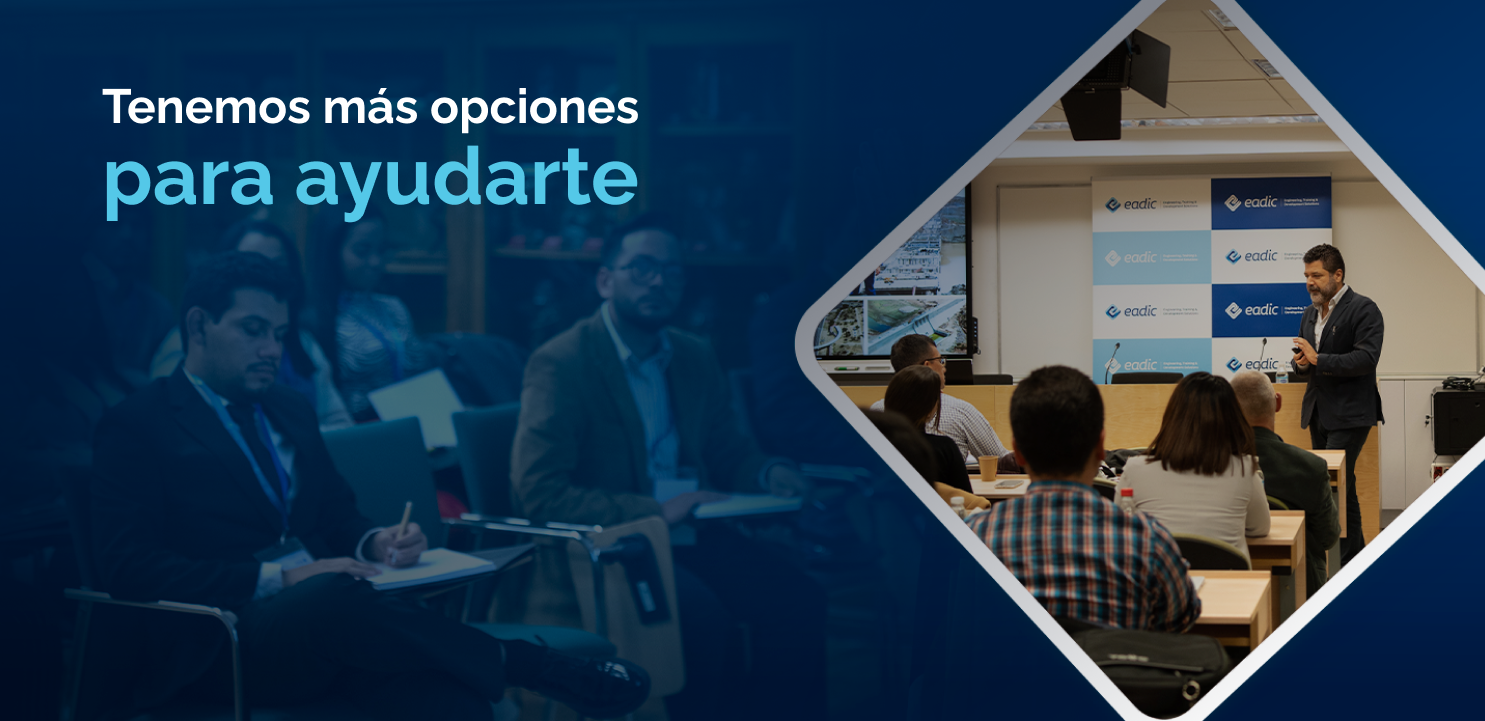
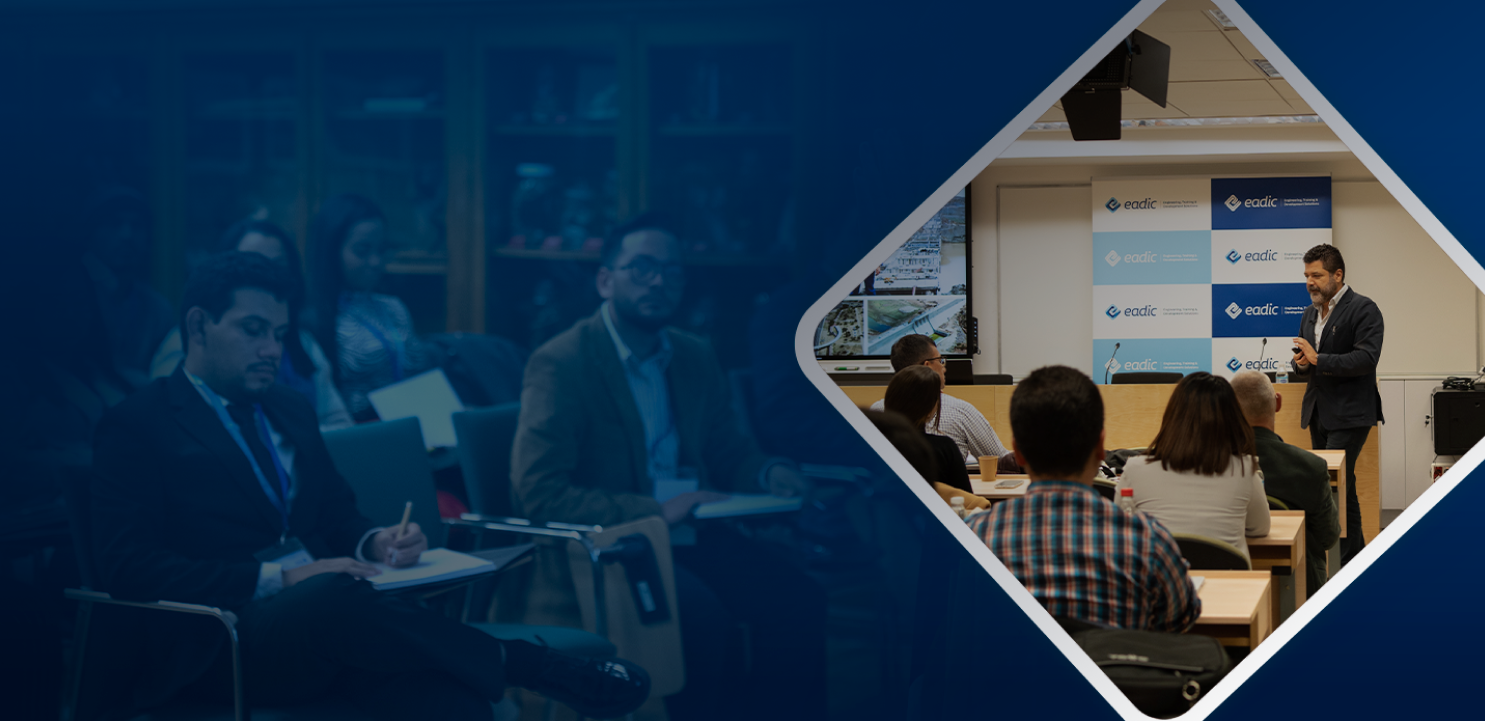
Creacion de envio de mails

Changed region(s): [[0.062, 0.1221, 0.4337, 0.3051]]

diff --git a/resources/views/oficina-vitual/index.blade.php b/resources/views/oficina-vitual/index.blade.php
@@ -18,7 +18,7 @@
                                     <img src="{{ asset("img/icons/computer_icon.png") }}" width="40%" alt="secondary_banner">
                                 </div>
                                 <div class="start-meet-btn text-center">
-                                    <a target="_BLANK" href="{{ route('zoom-meet') }}"
+                                    <a  href="{{ route('zoom-meet') }}"
                                         class="btn btn-primary start-meet">Iniciar Reunión</a>
                                 </div>
                             </div>
@@ -59,7 +59,30 @@
             <div class="row" style="margin:0 -2.8% 0 -3.5%">
                 <div class="col-lg-12">
                     <div class="secondary-banner">
-                        <img src="{{ asset("img/fourth_banner.png") }}" alt="main_banner" width="100%" height="450">
+                        <div class="row">
+                            <div class="col-12">
+                                <h4>Tenemos más opciones</h4>
+                                <h1>para ayudarte</h1>
+                            </div>
+                        </div>
+                        <div class="row pt-4">
+                            <div class="col-8">
+                                <div class="row text-center">
+                                    <div class="col-sm-4">
+                                        <img class="factura" src="{{ asset("img/icons/factura.png") }}" alt="factura">
+                                        <div class="btn-links">
+                                            <a class="btn factura-btn" target="_BLANK" href="https://soporte.eadic.biz/">Crear un ticket</a>
+                                        </div>
+                                    </div>
+                                    <div class="col-sm-4">
+                                        <img class="conversacion" src="{{ asset("img/icons/conversacion.png") }}" alt="conversacion">
+                                        <div class="btn-links">
+                                            <a class="btn factura-btn" href="{{ route('zoom-meet') }}">Preguntas frecuentes</a>
+                                        </div>
+                                    </div>
+                                </div>
+                            </div>
+                        </div>
                     </div>
                 </div>
             </div>
@@ -111,5 +134,42 @@
         border-radius: 10px;
         padding: 2% 10% 2% 10%;
     }
+
+    .secondary-banner{
+        background-image: url({{ asset("img/fourth_banner.png") }});
+        background-size: 100%;
+        background-repeat: no-repeat;
+        padding: 8% 4% 8% 8%;
+
+    }
+    .secondary-banner h1{
+        letter-spacing: 1.5px;
+        color:#00b7eb;
+        font-size: 3.2rem;
+        font-weight: 800
+    }
+    .secondary-banner h4{
+        letter-spacing: 1.5px;
+        color: #FFFFFF;
+        font-size: 1.9rem;
+        font-weight: 700
+    }
+
+    .factura, .conversacion{
+        width: 70%;
+        max-width: 100%;
+    }
+
+    .btn-links{
+        padding: 10% 0 0 0
+    }
+    .factura-btn{
+        background-color: #FFFFFF;
+        border-radius: 10px;
+        font-size: auto;
+        letter-spacing: 1%;
+        font-weight: 700
+    }
+
 </style>
 @stop

diff --git a/app/Mail/OsticketNotification.php b/app/Mail/OsticketNotification.php
@@ -1,0 +1,37 @@
+<?php
+
+namespace App\Mail;
+
+use Illuminate\Bus\Queueable;
+use Illuminate\Contracts\Queue\ShouldQueue;
+use Illuminate\Mail\Mailable;
+use Illuminate\Queue\SerializesModels;
+
+class OsticketNotification extends Mailable
+{
+    use Queueable, SerializesModels;
+
+    public $request;
+
+    /**
+     * Create a new message instance.
+     *
+     * @return void
+     */
+    public function __construct($request)
+    {
+        return $this->request = $request;
+    }
+
+    /**
+     * Build the message.
+     *
+     * @return $this
+     */
+    public function build()
+    {
+        return $this->view('oficina-vitual.confirmacion', [
+            'request' => $this->request
+        ]);
+    }
+}

diff --git a/config/mail.php b/config/mail.php
@@ -36,11 +36,11 @@ return [
     'mailers' => [
         'smtp' => [
             'transport' => 'smtp',
-            'host' => env('MAIL_HOST', 'smtp.mailgun.org'),
-            'port' => env('MAIL_PORT', 587),
+            'host' => env('MAIL_HOST', 'smtp.eadic.org'),
+            'port' => env('MAIL_PORT', 25),
             'encryption' => env('MAIL_ENCRYPTION', 'tls'),
-            'username' => env('MAIL_USERNAME'),
-            'password' => env('MAIL_PASSWORD'),
+            'username' => env('MAIL_USERNAME', 'portalalumno@eadic.org'),
+            'password' => env('MAIL_PASSWORD', 'Eadic*0999'),
             'timeout' => null,
             'auth_mode' => null,
         ],

diff --git a/app/Http/Controllers/OficinaVirtualController.php b/app/Http/Controllers/OficinaVirtualController.php
@@ -4,7 +4,9 @@ namespace App\Http\Controllers;
 
 use App\Http\Requests\CitaTelefonicaRequest;
 use App\Http\Requests\OficinaVirtualRequest;
+use App\Mail\OsticketNotification;
 use Illuminate\Http\Request;
+use Illuminate\Support\Facades\Mail;
 
 class OficinaVirtualController extends Controller
 {
@@ -20,7 +22,8 @@ class OficinaVirtualController extends Controller
 
     public function agendarCita(CitaTelefonicaRequest $request)
     {
-        return $request;
+        $osticket = Mail::to('apoyomaster@eadic.es')->send(new OsticketNotification($request));
+        return view('oficina-vitual.cita-telefonica');
     }
 
     public function zoomMeet(Type $var = null)

diff --git a/resources/views/oficina-vitual/confirmacion.blade.php b/resources/views/oficina-vitual/confirmacion.blade.php
@@ -1,0 +1,17 @@
+<!DOCTYPE html>
+<html lang="en">
+<head>
+    <meta charset="UTF-8">
+    <meta name="viewport" content="width=device-width, initial-scale=1.0">
+    <meta http-equiv="X-UA-Compatible" content="ie=edge">
+    <title>Document</title>
+</head>
+<body>
+    <h1>Email enviado a Osticket</h1>
+    <h3>Dastos que se envian a Osticket</h3>
+    Nombre : {{ $request->name }} {{ $request->last_name }}<br>
+    Telefono : {{ $request->telefono }}<br>
+    Motivo de Llamada : {{ $request->motivo_llamada }}<br>
+    horario : {{ $request->horario }}
+</body>
+</html>
